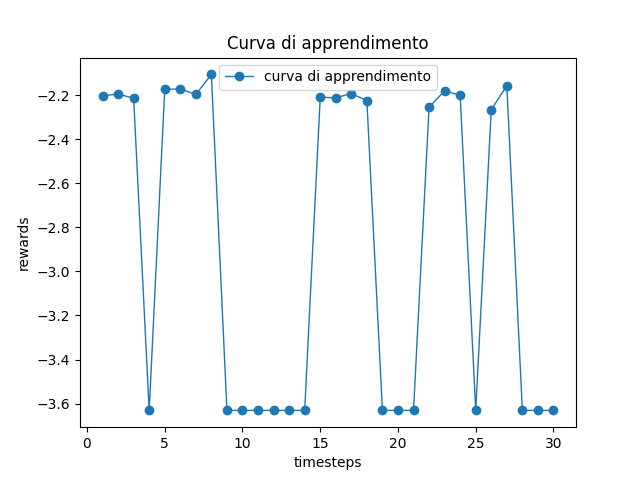
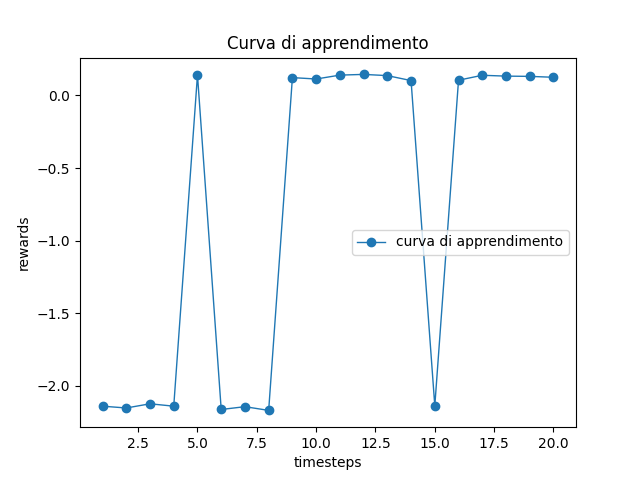
VQE

diff --git a/.ipynb_checkpoints/VQE_2q_FakeManila-checkpoint.py b/.ipynb_checkpoints/VQE_2q_FakeManila-checkpoint.py
@@ -9,16 +9,15 @@ from qiskit_nature.second_q.drivers import PySCFDriver
 from qiskit_nature.second_q.mappers import JordanWignerMapper, ParityMapper
 import numpy as np
 from qiskit_nature.second_q.formats.molecule_info import MoleculeInfo
-from qiskit_nature.second_q.drivers import PySCFDriver
 from qiskit_nature import settings
-from qiskit_nature.second_q.transformers import FreezeCoreTransformer,ActiveSpaceTransformer
+from qiskit_nature.second_q.transformers import FreezeCoreTransformer, ActiveSpaceTransformer
 import re
 from qiskit.pulse import Schedule, GaussianSquare, Drag, Delay, Play, ControlChannel, DriveChannel
 import gym
 from gym import spaces
 from stable_baselines3 import PPO
 from stable_baselines3.common.vec_env import DummyVecEnv
-from gym import Env, spaces
+from gym import Env
 from qiskit import IBMQ
 import copy
 import time
@@ -29,15 +28,10 @@ from qiskit_aer.primitives import Estimator
 import shutil
 import os
 from stable_baselines3.common.callbacks import BaseCallback
-from qiskit_nature.units import DistanceUnit
-from qiskit_nature.second_q.drivers import PySCFDriver
-from qiskit_nature.second_q.mappers import JordanWignerMapper, ParityMapper
-import numpy as np
-from qiskit_nature.second_q.formats.molecule_info import MoleculeInfo
-from qiskit_nature.second_q.drivers import PySCFDriver
 from qiskit.providers.ibmq import IBMQBackend
 from qiskit_ibm_provider import IBMProvider
 import matplotlib.pyplot as plt
+from stable_baselines3.common.evaluation import evaluate_policy
 
 gate_backend =FakeManila()
 gate_backend.configuration().hamiltonian['qub'] = {'0': 2,'1': 2,'2': 2,'3': 2,'4': 2}
@@ -77,7 +71,7 @@ class QuantumEnv(Env):
         super(QuantumEnv,self).__init__()
         self.available_gates = ['x', 'cx']
         self.ansatz = []
-        self.max_gates = 10
+        self.max_gates = 5
         #spazio delle azioni
         self.action_space = spaces.Discrete(2 * len(self.available_gates))
         #spazio degli stati
@@ -122,7 +116,7 @@ class QuantumEnv(Env):
         #print('Distanza:', dist)
         print('Ansatz:', self.ansatz)
         vqe_res = minimize(vqe, params, args=(my_dict, pulse_backend, gate_backend, n_qubit, n_shot, self.ansatz),
-                           method=optimizer, constraints=LC, options={'rhobeg':0.1, 'maxiter':0})
+                           method=optimizer, constraints=LC, options={'rhobeg':0.2, 'maxiter':10})
         
         # Calcola la ricompensa
         reward = np.log((-(vqe_res.fun + REPULSION_ENERGYproblem))**2)
@@ -376,7 +370,7 @@ def vqe(params,pauli_dict,pulse_backend, backend,n_qubit,n_shot, ansatz):
     #print("E for cur_iter: ",sum(expect_values))
     return sum(expect_values)
     
-max_timesteps = 5
+max_timesteps = 20
 callback = MyCustomCallback(max_timesteps=max_timesteps)
 env = DummyVecEnv([lambda: QuantumEnv()])
 # Agente RL
@@ -392,5 +386,23 @@ plt.legend()
 plt.title("Curva di apprendimento")
 output_path = 'apprend.png'
 plt.savefig(output_path)
-plt.show()
 
+episodes = 5
+for episode in range(1, episodes+1):
+    print('EPISODIO:',episode)
+    state = env.reset()
+    done = False
+    score = 0
+    while not done:
+        env.render()
+        action, _ = model.predict(state)
+        n_state, reward, done,_= env.step(action)
+        print('stato:',n_state)
+        state = n_state
+        score += reward
+
+        if done:
+            break
+    print(f'Episode:{episode} Score:{score}')
+
+env.close()

diff --git a/VQE_2q_FakeManila.py b/VQE_2q_FakeManila.py
@@ -9,16 +9,15 @@ from qiskit_nature.second_q.drivers import PySCFDriver
 from qiskit_nature.second_q.mappers import JordanWignerMapper, ParityMapper
 import numpy as np
 from qiskit_nature.second_q.formats.molecule_info import MoleculeInfo
-from qiskit_nature.second_q.drivers import PySCFDriver
 from qiskit_nature import settings
-from qiskit_nature.second_q.transformers import FreezeCoreTransformer,ActiveSpaceTransformer
+from qiskit_nature.second_q.transformers import FreezeCoreTransformer, ActiveSpaceTransformer
 import re
 from qiskit.pulse import Schedule, GaussianSquare, Drag, Delay, Play, ControlChannel, DriveChannel
 import gym
 from gym import spaces
 from stable_baselines3 import PPO
 from stable_baselines3.common.vec_env import DummyVecEnv
-from gym import Env, spaces
+from gym import Env
 from qiskit import IBMQ
 import copy
 import time
@@ -29,15 +28,10 @@ from qiskit_aer.primitives import Estimator
 import shutil
 import os
 from stable_baselines3.common.callbacks import BaseCallback
-from qiskit_nature.units import DistanceUnit
-from qiskit_nature.second_q.drivers import PySCFDriver
-from qiskit_nature.second_q.mappers import JordanWignerMapper, ParityMapper
-import numpy as np
-from qiskit_nature.second_q.formats.molecule_info import MoleculeInfo
-from qiskit_nature.second_q.drivers import PySCFDriver
 from qiskit.providers.ibmq import IBMQBackend
 from qiskit_ibm_provider import IBMProvider
 import matplotlib.pyplot as plt
+from stable_baselines3.common.evaluation import evaluate_policy
 
 gate_backend =FakeManila()
 gate_backend.configuration().hamiltonian['qub'] = {'0': 2,'1': 2,'2': 2,'3': 2,'4': 2}
@@ -122,7 +116,7 @@ class QuantumEnv(Env):
         #print('Distanza:', dist)
         print('Ansatz:', self.ansatz)
         vqe_res = minimize(vqe, params, args=(my_dict, pulse_backend, gate_backend, n_qubit, n_shot, self.ansatz),
-                           method=optimizer, constraints=LC, options={'rhobeg':0.2, 'maxiter':15})
+                           method=optimizer, constraints=LC, options={'rhobeg':0.2, 'maxiter':10})
         
         # Calcola la ricompensa
         reward = np.log((-(vqe_res.fun + REPULSION_ENERGYproblem))**2)
@@ -376,7 +370,7 @@ def vqe(params,pauli_dict,pulse_backend, backend,n_qubit,n_shot, ansatz):
     #print("E for cur_iter: ",sum(expect_values))
     return sum(expect_values)
     
-max_timesteps = 30
+max_timesteps = 20
 callback = MyCustomCallback(max_timesteps=max_timesteps)
 env = DummyVecEnv([lambda: QuantumEnv()])
 # Agente RL
@@ -393,3 +387,22 @@ plt.title("Curva di apprendimento")
 output_path = 'apprend.png'
 plt.savefig(output_path)
 
+episodes = 5
+for episode in range(1, episodes+1):
+    print('EPISODIO:',episode)
+    state = env.reset()
+    done = False
+    score = 0
+    while not done:
+        env.render()
+        action, _ = model.predict(state)
+        n_state, reward, done,_= env.step(action)
+        print('stato:',n_state)
+        state = n_state
+        score += reward
+
+        if done:
+            break
+    print(f'Episode:{episode} Score:{score}')
+
+env.close()
